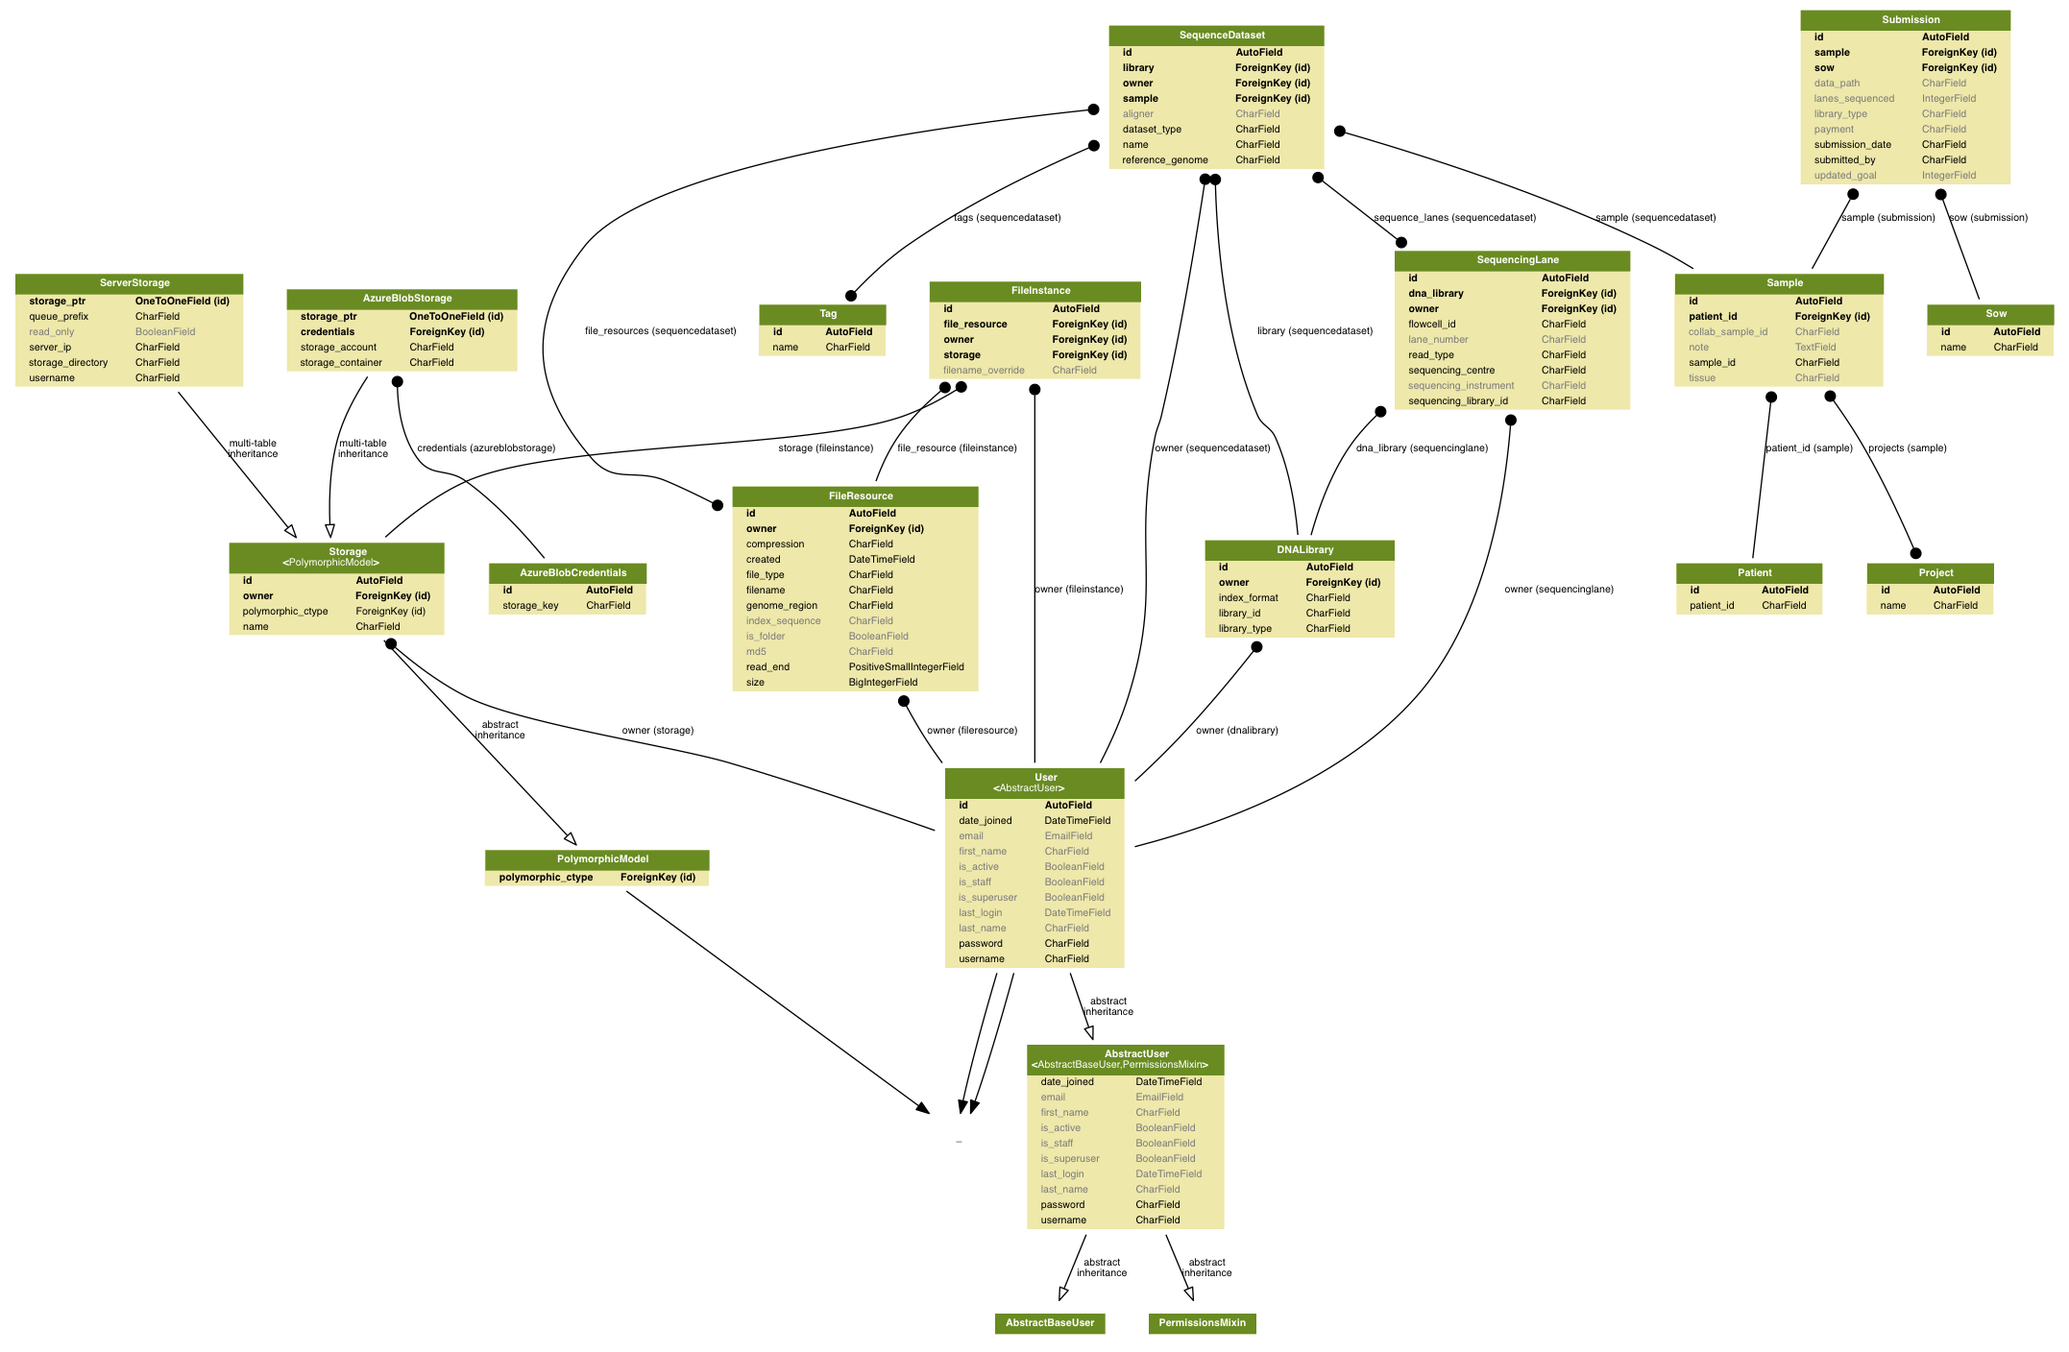
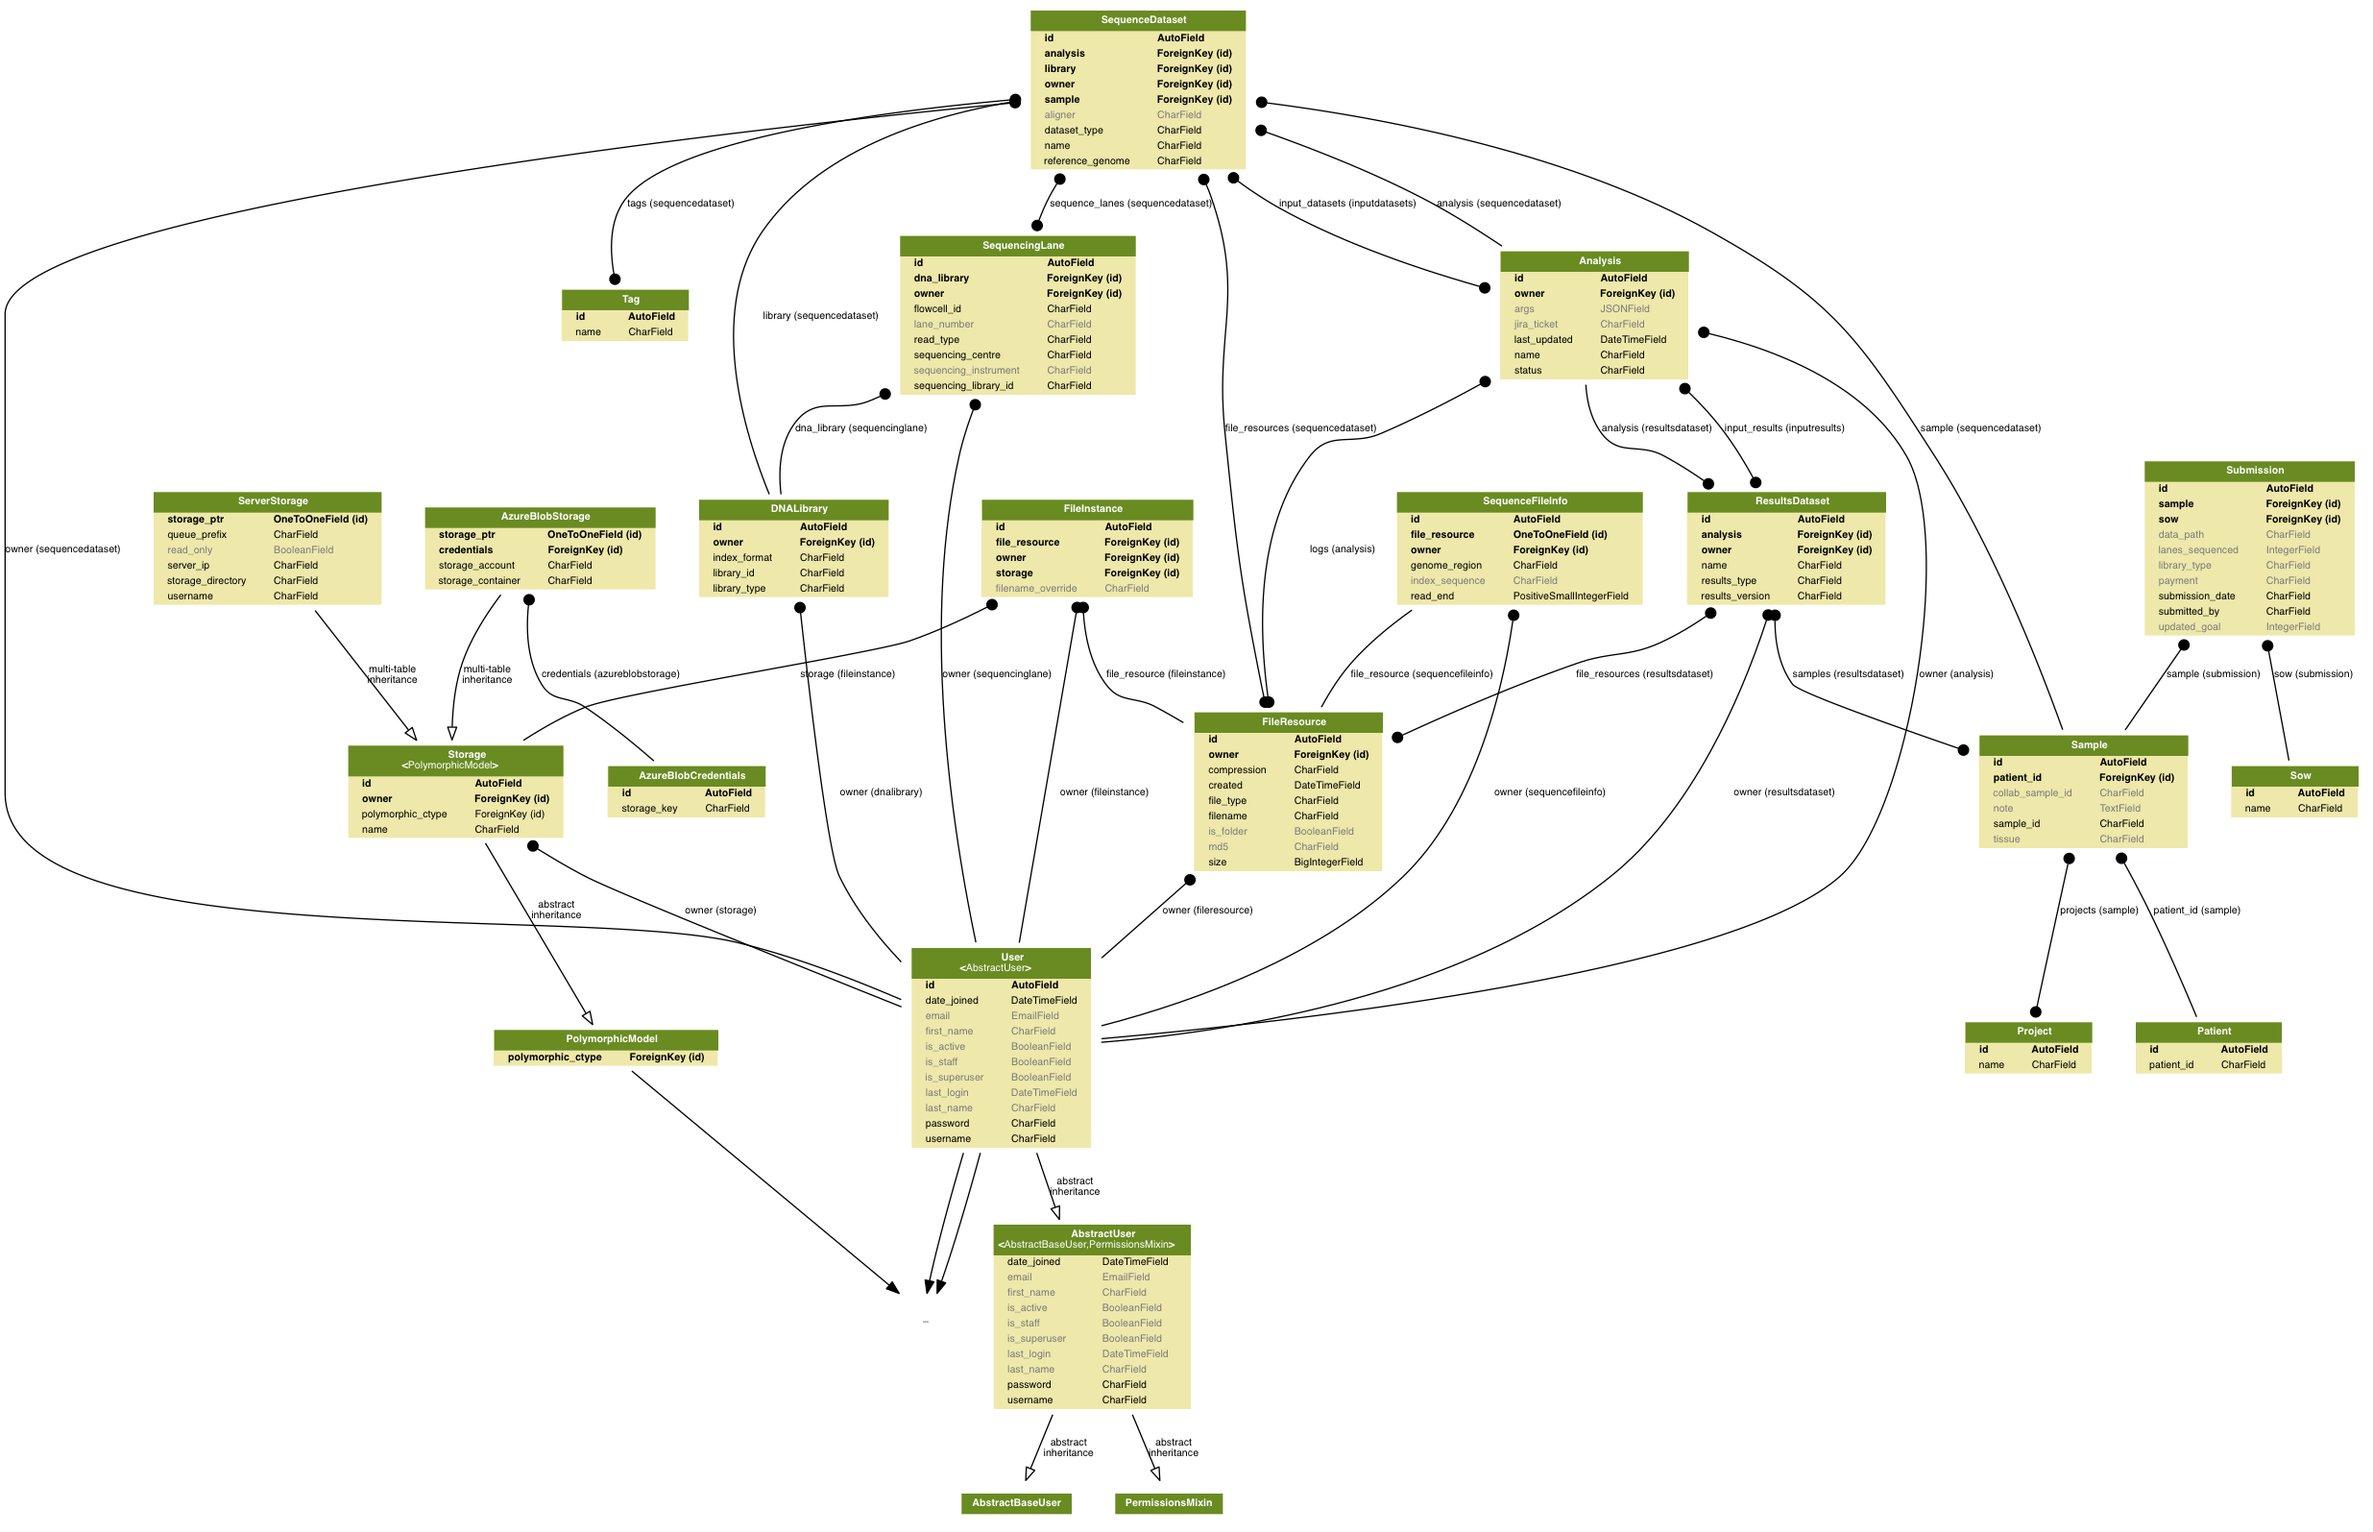
feature: results and analyses models

diff --git a/tantalus/migrations/0061_auto_20180813_1728.py b/tantalus/migrations/0061_auto_20180813_1728.py
@@ -1,0 +1,113 @@
+# -*- coding: utf-8 -*-
+# Generated by Django 1.11.14 on 2018-08-13 17:28
+from __future__ import unicode_literals
+
+from django.conf import settings
+import django.contrib.postgres.fields.jsonb
+from django.db import migrations, models
+import django.db.models.deletion
+import django.utils.timezone
+
+
+class Migration(migrations.Migration):
+
+    dependencies = [
+        migrations.swappable_dependency(settings.AUTH_USER_MODEL),
+        ('tantalus', '0060_auto_20180810_1906'),
+    ]
+
+    operations = [
+        migrations.CreateModel(
+            name='Analysis',
+            fields=[
+                ('id', models.AutoField(auto_created=True, primary_key=True, serialize=False, verbose_name='ID')),
+                ('name', models.CharField(max_length=200, unique=True)),
+                ('jira_ticket', models.CharField(blank=True, max_length=50, null=True)),
+                ('last_updated', models.DateTimeField(default=django.utils.timezone.now, null=True)),
+                ('status', models.CharField(default='Unknown', max_length=50)),
+                ('args', django.contrib.postgres.fields.jsonb.JSONField(blank=True, null=True)),
+                ('input_datasets', models.ManyToManyField(related_name='inputdatasets', to='tantalus.SequenceDataset')),
+            ],
+        ),
+        migrations.CreateModel(
+            name='HistoricalAnalysis',
+            fields=[
+                ('id', models.IntegerField(auto_created=True, blank=True, db_index=True, verbose_name='ID')),
+                ('name', models.CharField(db_index=True, max_length=200)),
+                ('jira_ticket', models.CharField(blank=True, max_length=50, null=True)),
+                ('last_updated', models.DateTimeField(default=django.utils.timezone.now, null=True)),
+                ('status', models.CharField(default='Unknown', max_length=50)),
+                ('args', django.contrib.postgres.fields.jsonb.JSONField(blank=True, null=True)),
+                ('history_id', models.AutoField(primary_key=True, serialize=False)),
+                ('history_date', models.DateTimeField()),
+                ('history_change_reason', models.CharField(max_length=100, null=True)),
+                ('history_type', models.CharField(choices=[('+', 'Created'), ('~', 'Changed'), ('-', 'Deleted')], max_length=1)),
+                ('history_user', models.ForeignKey(null=True, on_delete=django.db.models.deletion.SET_NULL, related_name='+', to=settings.AUTH_USER_MODEL)),
+                ('owner', models.ForeignKey(blank=True, db_constraint=False, null=True, on_delete=django.db.models.deletion.DO_NOTHING, related_name='+', to=settings.AUTH_USER_MODEL)),
+            ],
+            options={
+                'ordering': ('-history_date', '-history_id'),
+                'get_latest_by': 'history_date',
+                'verbose_name': 'historical analysis',
+            },
+        ),
+        migrations.CreateModel(
+            name='HistoricalResultsDataset',
+            fields=[
+                ('id', models.IntegerField(auto_created=True, blank=True, db_index=True, verbose_name='ID')),
+                ('name', models.CharField(db_index=True, max_length=200)),
+                ('results_type', models.CharField(max_length=50)),
+                ('results_version', models.CharField(max_length=50)),
+                ('history_id', models.AutoField(primary_key=True, serialize=False)),
+                ('history_date', models.DateTimeField()),
+                ('history_change_reason', models.CharField(max_length=100, null=True)),
+                ('history_type', models.CharField(choices=[('+', 'Created'), ('~', 'Changed'), ('-', 'Deleted')], max_length=1)),
+                ('analysis', models.ForeignKey(blank=True, db_constraint=False, null=True, on_delete=django.db.models.deletion.DO_NOTHING, related_name='+', to='tantalus.Analysis')),
+                ('history_user', models.ForeignKey(null=True, on_delete=django.db.models.deletion.SET_NULL, related_name='+', to=settings.AUTH_USER_MODEL)),
+                ('owner', models.ForeignKey(blank=True, db_constraint=False, null=True, on_delete=django.db.models.deletion.DO_NOTHING, related_name='+', to=settings.AUTH_USER_MODEL)),
+            ],
+            options={
+                'ordering': ('-history_date', '-history_id'),
+                'get_latest_by': 'history_date',
+                'verbose_name': 'historical results dataset',
+            },
+        ),
+        migrations.CreateModel(
+            name='ResultsDataset',
+            fields=[
+                ('id', models.AutoField(auto_created=True, primary_key=True, serialize=False, verbose_name='ID')),
+                ('name', models.CharField(max_length=200, unique=True)),
+                ('results_type', models.CharField(max_length=50)),
+                ('results_version', models.CharField(max_length=50)),
+                ('analysis', models.ForeignKey(on_delete=django.db.models.deletion.CASCADE, to='tantalus.Analysis')),
+                ('file_resources', models.ManyToManyField(to='tantalus.FileResource')),
+                ('owner', models.ForeignKey(null=True, on_delete=django.db.models.deletion.SET_NULL, to=settings.AUTH_USER_MODEL)),
+                ('samples', models.ManyToManyField(to='tantalus.Sample')),
+            ],
+        ),
+        migrations.AddField(
+            model_name='analysis',
+            name='input_results',
+            field=models.ManyToManyField(related_name='inputresults', to='tantalus.ResultsDataset'),
+        ),
+        migrations.AddField(
+            model_name='analysis',
+            name='logs',
+            field=models.ManyToManyField(to='tantalus.FileResource'),
+        ),
+        migrations.AddField(
+            model_name='analysis',
+            name='owner',
+            field=models.ForeignKey(null=True, on_delete=django.db.models.deletion.SET_NULL, to=settings.AUTH_USER_MODEL),
+        ),
+        migrations.AddField(
+            model_name='historicalsequencedataset',
+            name='analysis',
+            field=models.ForeignKey(blank=True, db_constraint=False, null=True, on_delete=django.db.models.deletion.DO_NOTHING, related_name='+', to='tantalus.Analysis'),
+        ),
+        migrations.AddField(
+            model_name='sequencedataset',
+            name='analysis',
+            field=models.ForeignKey(null=True, on_delete=django.db.models.deletion.CASCADE, to='tantalus.Analysis'),
+        ),
+    ]

diff --git a/tantalus/models.py b/tantalus/models.py
@@ -6,6 +6,7 @@ import django.contrib.postgres.fields
 from django.db import models
 from django.core.urlresolvers import reverse
 from django.shortcuts import get_object_or_404
+from django.utils import timezone
 from simple_history.models import HistoricalRecords
 from polymorphic.models import PolymorphicModel
 import account.models
@@ -409,6 +410,11 @@ class SequenceDataset(models.Model):
         SequencingLane,
     )
 
+    analysis = models.ForeignKey(
+        'Analysis',
+        null=True,
+    )
+
     HG19 = 'HG19'
     HG18 = 'HG18'
     UNALIGNED = 'UNALIGNED'
@@ -446,6 +452,104 @@ class SequenceDataset(models.Model):
                 file_resource__sequencedataset=self)
             .values_list('storage__name', flat=True)
             .distinct())
+
+
+class Analysis(models.Model):
+    """
+    Analysis/workflow details
+    """
+
+    history = HistoricalRecords()
+
+    owner = models.ForeignKey(
+        account.models.User,
+        on_delete=models.SET_NULL,
+        null=True,
+    )
+
+    name = models.CharField(
+        max_length=200,
+        unique=True,
+    )
+
+    jira_ticket = models.CharField(
+        max_length=50,
+        blank=True,
+        null=True,
+    )
+
+    input_datasets = models.ManyToManyField(
+        'SequenceDataset',
+        related_name='inputdatasets',
+    )
+
+    input_results = models.ManyToManyField(
+        'ResultsDataset',
+        related_name='inputresults',
+    )
+
+    last_updated = models.DateTimeField(
+        null=True,
+        default=timezone.now,
+    )
+
+    status = models.CharField(
+        max_length=50,
+        blank=False,
+        null=False,
+        default="Unknown",
+    )
+
+    args = django.contrib.postgres.fields.JSONField(
+        null=True,
+        blank=True,
+    )
+
+    logs = models.ManyToManyField(
+        FileResource,
+    )
+
+
+class ResultsDataset(models.Model):
+    """
+    Generalized results class.
+    """
+
+    history = HistoricalRecords()
+
+    owner = models.ForeignKey(
+        account.models.User,
+        on_delete=models.SET_NULL,
+        null=True,
+    )
+
+    name = models.CharField(
+        max_length=200,
+        unique=True,
+    )
+
+    results_type = models.CharField(
+        max_length=50,
+        null=False,
+    )
+
+    results_version = models.CharField(
+        max_length=50,
+        null=False,
+    )
+
+    analysis = models.ForeignKey(
+        Analysis,
+        null=False,
+    )
+
+    samples = models.ManyToManyField(
+        Sample,
+    )
+
+    file_resources = models.ManyToManyField(
+        FileResource,
+    )
 
 
 class Storage(PolymorphicModel):
